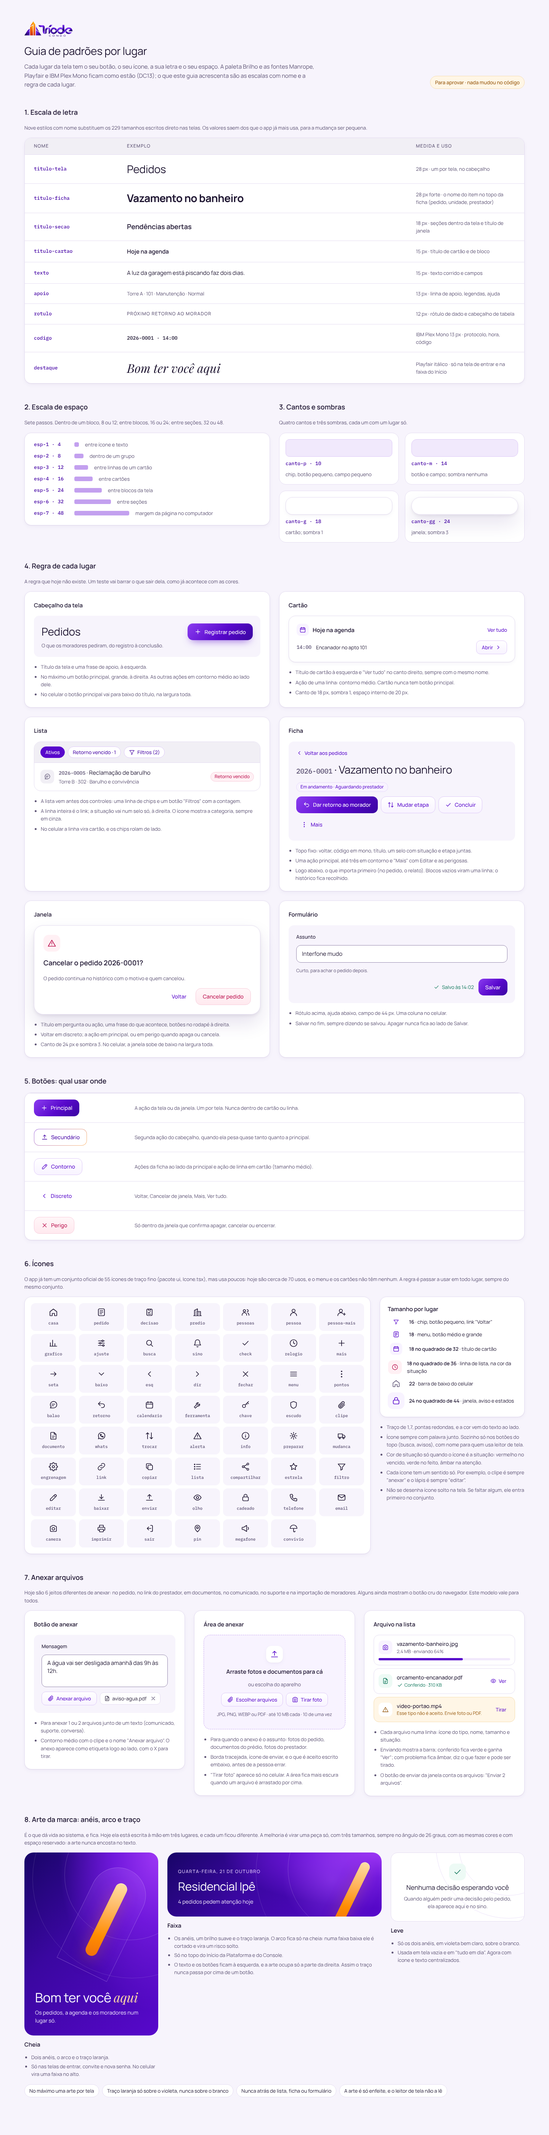
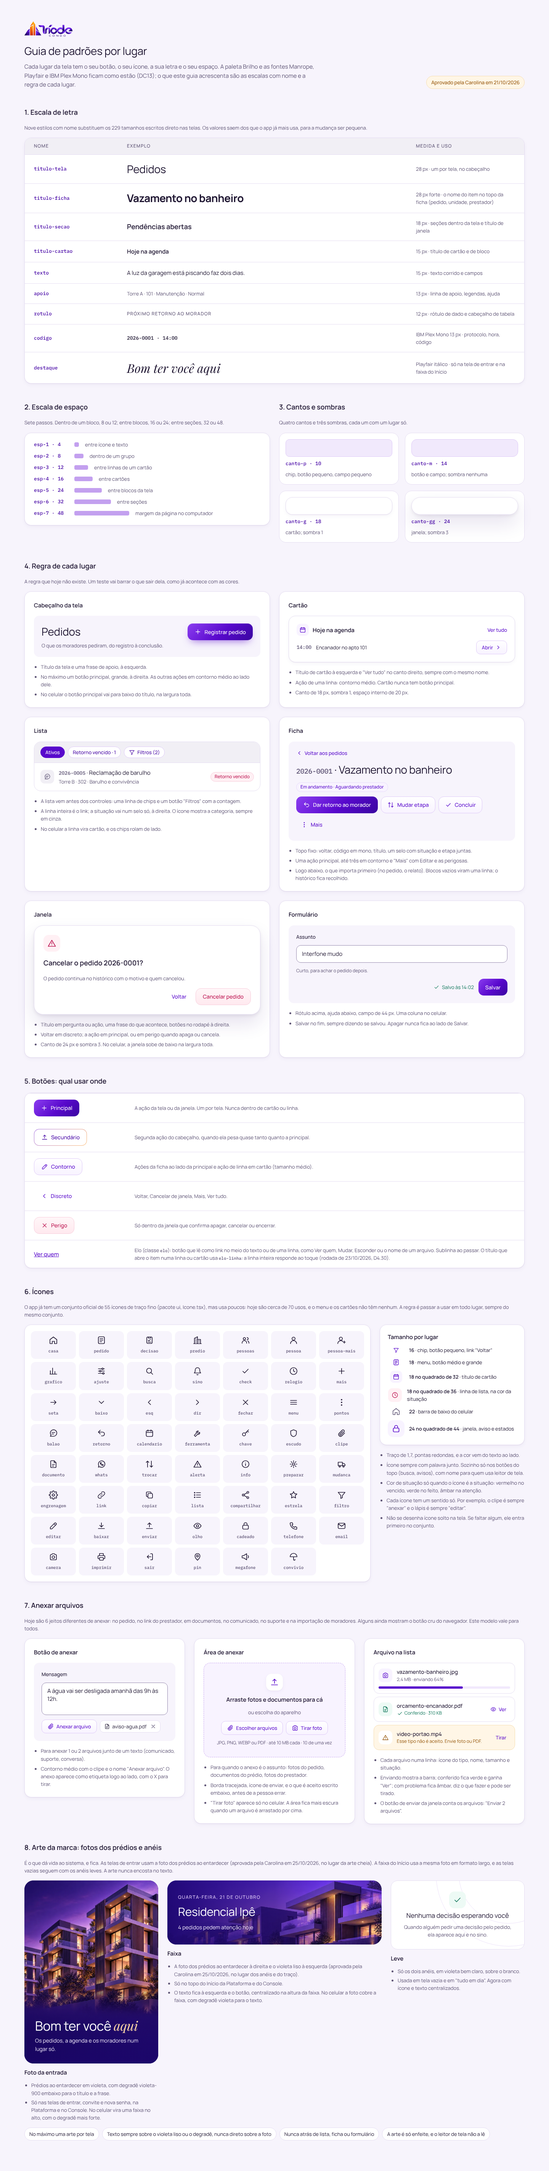
Fotos dos prédios nas telas de entrar e na faixa do Início (D4.38)
Plataforma e Console: a foto no painel das telas de entrar e na faixa do
Início, no lugar dos anéis, do arco e do traço laranja. Botão da faixa
centralizado na altura no computador. Saem as cores que só essa arte
usava e os exemplos antigos do guia; desenho registrado em docs/design.

Claude-Session: https://claude.ai/code/session_016xtneK2ik6ifMe6FUwZW3X

diff --git a/triade-condo/docs/painel-execucao.html b/triade-condo/docs/painel-execucao.html
@@ -525,6 +525,7 @@
         {"id": "D4.35", "texto": "Rodada com banco do design do frontend, área F (Console): a pendência vencida com o texto e com quem está, as partes da configuração conferidas e o nome de quem entrou ou saiu da equipe", "peca": "B4", "refs": ["PI-01", "PI-04", "PI-05", "PI-12", "V-10"], "status": "feito", "nota": "Desenho da área F no quadro 303 do canvas, aprovado pela Carolina em 24/10/2026 com as decisões F.1 e F.2 recomendadas. Pendência vencida (F.1): no Agora do Início, a linha das vencidas diz com quem está, o que é, de qual cliente e quando venceu (Com o cliente: Síndica enviar a planilha de moradores · Residencial Ipê · venceu em 21/10, ou Com a equipe · Diego: ...), a mais antiga de todas, com e mais N quando há outras, e o Ver leva à implantação desse cliente; a regra de vencida é a mesma da contagem, no fuso de cada condomínio. Configuração: quando a próxima etapa é a Configuração (reconhecida pela chave, não pelo número), as linhas de implantação do Início e da carteira dizem quantas das 11 partes já foram conferidas (Próxima: 4 · Configuração · 10 de 11 partes conferidas); cada cliente é lido no próprio contexto e nenhum condomínio fica no contexto depois da lista. Histórico da equipe: Inês entrou na equipe · Implantação, Inês saiu da equipe e Funções de Inês revistas · Implantação → Implantação, Suporte; o nome é lido na hora, nunca gravado no histórico, e evento sem nome continua com o texto de antes. A busca da carteira no servidor ficou fora por escolha da Carolina (F.2). Uma revisão independente do código achou 3 pontos menores, corrigidos antes do PR (a configuração pela chave da etapa, o Ver levando ao cliente da frase e dois testes que provavam menos do que diziam). Migration 0300 aplicada no triade-condo-dev em 24/10/2026, com a autorização escrita da Carolina, depois do merge do PR 81 (d0131f1); a api-console versão 14, publicada a partir do main (8adc634) pela entrega da tabela de preços, já leva a área F. A api-plataforma não muda.", "evidencia": "pgTAP 042_console_area_f_test.sql (26 testes: a lista igual à de antes, na mesma ordem, com os campos novos; a vencida mais antiga com o texto, com quem está, quem cuida, a etapa e o retorno; resolvida a mais antiga, aparece a seguinte; o retorno de hoje no fuso do Acre não vencido; as partes só quando a próxima etapa é a configuração, sem vazar de um cliente para outro; nenhum contexto depois da lista; quem não é da equipe e quem não tem cliente; o histórico com o nome atual, sem gravar o nome). Deno clientes_test.ts (o histórico da equipe com o alvo e a lista de implantações repassada). Vitest eventos.test.ts (os textos com o nome e sem ele). Playwright console-area-f.spec.ts (3 cenários, com axe) e console-passo1.spec.ts com a frase nova. Suítes completas: 2471 pgTAP, 272 Deno, 290 Vitest e 73 de ponta a ponta do Console (1 pulado) passando localmente."},
         {"id": "D4.36", "texto": "Rodada com banco do design do frontend, área E (Pessoas, suporte e link do prestador): quem assume os pedidos e as manutenções ao revogar o acesso, a imagem dentro da mensagem do chamado e o Pronto do prestador com o que foi mandado", "peca": "B4", "refs": ["CF-04", "CF-05", "MP-01", "MP-03", "PI-20", "V-11", "MP-08"], "status": "feito", "nota": "Desenho da área E nos quadros 298 a 302 do canvas, aprovado pela Carolina em 24/10/2026 com as decisões E.1, E.2 e E.3 recomendadas. Revogar (E.1): a janela diz por quantos pedidos e manutenções a pessoa responde e, só quando há algo em aberto, pergunta quem assume os pedidos (só quem atende e está disponível, com o padrão da fila já escolhido, ou Deixar na fila sem responsável) e quem assume as manutenções e as preventivas ativas (quem cuida da manutenção); a manutenção nunca fica com quem perdeu o acesso, cada troca vai para o histórico com o motivo Acesso revogado e o repasse fica registrado logo depois da revogação; se a contagem estava velha, a janela recarrega e pergunta. Imagem no chamado (E.2): a imagem é anexada ao enviar (abrir, responder e pedir mudança) e fica dentro da mensagem, até 3 por mensagem e 10 por chamado, só na própria mensagem recém-enviada; as imagens antigas foram para a mensagem anterior mais próxima de quem enviou; o Console mostra as imagens dentro das mensagens, sem anexar. Pronto do prestador (E.3): O que você mandou lista cada envio com a hora, o texto, quem fez, o que ficou para depois e as fotos, que abrem pela página só enquanto o link vale; foto retirada pelo síndico some. Uma revisão independente do código achou pontos menores, corrigidos antes do PR (a migração das imagens antigas com erro claro se o papel não ignorar o RLS, a trava contra revogações ao mesmo tempo, o repasse no histórico, a foto só de registro, a janela que recarrega e as APIs falsas iguais ao banco). Migration 0297 aplicada no triade-condo-dev em 24/10/2026, com a autorização escrita da Carolina, depois do merge do PR 85 (8cfac88), e api-plataforma versão 36 publicada a partir do main; as telas subiram pela Vercel com o mesmo merge. A api-console não muda.", "evidencia": "pgTAP 043_area_e_test.sql (75 testes: quem assume pedidos, manutenções e preventivas, as recusas, outro condomínio, a recusa que não mexe em nada, o repasse no histórico, a contagem em aberto; os limites de 3 e 10 imagens, a mensagem própria, recente e do lado do cliente, as imagens em cada mensagem e a migração das antigas; o Pronto com a lista completa e as fotos, a foto retirada, não liberada, de outro link, de outro condomínio e sem registro, e o link encerrado) e 020 ajustado. Deno configuracoes_test, suporte_test e links_test. Vitest suporte, plataforma e eventos. Playwright plataforma-area-e.spec.ts e console-area-e.spec.ts, com axe, e plataforma-passo2, plataforma-suporte e plataforma-links-qr ajustados. Telas-modelo pessoas-revogar-assume-*, suporte-chamado-imagem-* e links-prestador-pronto-envios. Suítes completas: 2624 pgTAP, 281 Deno, 305 Vitest e 535 de ponta a ponta (1 pulado) passando localmente."},
         {"id": "D4.37", "texto": "Revogar sem deixar nada preso: os fluxos que tiram o acesso por fora da janela de Pessoas", "peca": "B4", "refs": ["CF-05", "CT-01"], "status": "pendente", "nota": "Achado na revisão da área E (D4.36), e já era assim antes dela: a troca de síndico no Console (console_trocar_sindico) revoga o síndico antigo sem passar as manutenções e as preventivas dele e sem tirá-lo de quem atende, então os pedidos ficam com ele; ao revogar, as pendências de pedido em nome da pessoa e o executor das manutenções também não mudam de dono. Falta levar a mesma regra de quem assume para esses casos."},
+        {"id": "D4.38", "texto": "Fotos dos prédios ao entardecer nas telas de entrar e na faixa do Início, na Plataforma e no Console, no lugar da arte antiga dos anéis, do arco e do traço laranja", "peca": "B4", "refs": ["EM-02"], "status": "feito", "nota": "Pedido e aprovado pela Carolina em 25/10/2026, com as prévias no computador e no celular. Telas de entrar, convite e nova senha (peça TelaAcesso): a foto no painel da esquerda, recortada das bordas, com o Bom ter você aqui e a frase sobre o violeta de baixo e um degradê violeta-900; no celular, a foto vira uma faixa mais alta, com degradê mais forte. Faixa do Início (peça FotoFaixa): a foto larga com os prédios à direita e o texto no violeta da esquerda; o botão Registrar pedido ou Cadastrar condomínio centralizado na altura da faixa no computador, como a Carolina pediu; no celular a foto cobre a faixa com degradê para o texto. Fontes e paleta oficial sem mudança. Com a autorização da Carolina, saíram os anéis, o arco e o traço das duas peças, as cores --grad-arco, --grad-violeta, --grad-trilha e --shadow-trilha (só essa arte as usava) e os exemplos antigos Cheia e Faixa do guia de padrões. Os anéis leves das telas vazias continuam.", "evidencia": "Fotos em public/marca/entrada-predios.webp e faixa-predios.webp dos dois apps. Desenho registrado em docs/design (guia-padroes seção 8, LEIA-ME e telas-modelo entrar-* e inicio-faixa-*). Playwright plataforma-passo2, console-novo, console-passo1 e fundacao (77 passando, 1 pulado, com axe no celular e no computador); Vitest 414 passando; typecheck e lint sem erro."},
         {"id": "D4.21", "texto": "Novo frontend, rodada Dia a dia: Manutenção por dentro no padrão novo, com a ficha no modelo do pedido, Preventivas, Prestadores e Nova manutenção em passos no celular", "peca": "B4", "refs": ["MP-01", "MP-02", "MP-03", "MP-04", "MP-05", "MP-07", "MP-09", "MP-13"], "status": "feito", "nota": "Feito pelas telas-modelo aprovadas pela Carolina em 22/10/2026, com as decisões A.1, B.1, C.1 e D.1 da análise da Manutenção (docs/design/telas-modelo/manutencao-*; quadros 117 a 133 do canvas). Sem banco e sem mudar a API. A ficha da manutenção segue o modelo da ficha do pedido (A.1): o topo com o tipo, a situação, a prioridade e um só botão principal, que muda com a situação (Iniciar na planejada, Concluir em andamento, Resolver pendência na pendente e Reabrir na concluída); o resto fica em Mais ações (Editar, Marcar pendência, Marcar visita, Voltar a planejada e Cancelar manutenção), e a concluída e a cancelada não têm Mais ações; no celular, o principal fica preso embaixo. O próximo retorno fica num cartão no alto, com Mudar ou Definir e quanto falta. Quem executa e o Link do prestador viraram um cartão só (B.1), com o prestador, o serviço e o acordo, Ligar e Chamar no WhatsApp, Adicionar quando falta o telefone, a reserva do cadastro e o que acontece sem resposta ao link; a frase que dizia que a troca automática chega com o WhatsApp saiu, porque a troca para a reserva já está feita (F5.9). Os Dados da manutenção ganharam Repassar (muda o responsável sem abrir a edição inteira), Mudar a etapa e Mudar a previsão; as providências, os arquivos, as ligações, os comunicados e o histórico (as três últimas, com Ver histórico completo) viraram cartões, na ordem do desenho no celular. Concluir ganhou o campo Anexar a foto do depois, que guarda a foto nos arquivos da manutenção ao concluir. A vistoria mostra O que olhar com Responder em cada item, quantos foram respondidos e Virar manutenção no item com problema. Preventivas é uma tabela (cartões no celular) com o que se repete, a próxima data, quem executa e a situação, e cada linha diz Abrir a manutenção quando ela já abriu ou quantos dias antes vai abrir; as sugestões da ABNT NBR 5674 ficam recolhidas numa linha quando já existe preventiva (C.1), e o ícone das preventivas virou o calendário. Prestadores tem as abas Ativos e Arquivados com a contagem, a busca por nome, serviço ou telefone, os atalhos Contrato perto do fim e Com pendência e os grupos Com contrato e Por chamado; a ficha do prestador tem Contato com Ligar e Chamar no WhatsApp, Como trabalha com o condomínio (acordo, desde, reserva e de quem é a reserva), as manutenções dele com Ver todas na lista de manutenções e Arquivar em Mais ações; a frase que prometia Orçamentos e compras saiu. Nova manutenção (D.1) é uma tela só em três partes numeradas no computador (O que e onde, Quem cuida e quem executa, Quando e detalhes) e três passos no celular, com a barra de progresso, o passo feito resumido com Alterar, Voltar sem perder o que foi preenchido e o erro do servidor levando ao passo do campo. Os cartões da ficha (Cartao, Dado e Mais ações) saíram da ficha do pedido para uma peça comum (telas/Ficha.tsx). O que ficou diferente do desenho está no D4.22.", "evidencia": "Playwright plataforma-manutencao (8 cenários no celular e no computador, com axe: a lista e o início; registrar uma corretiva em três passos no celular, com o resumo do passo e Voltar sem perder o preenchido, e numa tela só no computador; Quem executa com Ligar, a reserva e o Link do prestador no mesmo cartão, Marcar pendência em Mais ações, Resolver pendência, Concluir com o campo da foto do depois e Reabrir sem Mais ações na concluída; Repassar; a vistoria; as Preventivas com Abrir a manutenção e as sugestões recolhidas; Prestadores com Com pendência e a busca, a ficha com o WhatsApp, Arquivar em Mais ações e Ver todas na lista de manutenções; as etapas nas Configurações) e a API falsa (api-falsa-manutencao.ts) passando o responsável no Repassar; lint, tipos, 259 Vitest e 404 ponta a ponta passando localmente."},
         {"id": "D4.22", "texto": "Manutenção no padrão novo: o que ficou diferente do desenho aprovado", "peca": "B4", "refs": ["MP-01", "MP-02"], "status": "feito", "nota": "Do desenho de 22/10/2026, a foto do depois agora vai numa chamada só ao concluir (D4.30): a API conclui e prepara o envio de cada foto; se uma foto falha, a manutenção fica concluída e a tela diz qual não foi. As outras diferenças eram escolhas, que a Carolina aceitou em 23/10/2026: Marcar pendência também na planejada, Concluir em Mais ações na pendente e Adicionar abrindo a edição inteira do prestador.", "evidencia": "D4.30: rota POST /v1/condominio/manutencao/:id/concluir com as fotos (api-plataforma/manutencao_test.ts) e Playwright plataforma-manutencao no celular e no computador."},
         {"id": "D4.19", "texto": "Novo frontend, rodada Comunicação: WhatsApp do condomínio no padrão novo, com a conversa do número e Registrar pedido com esta mensagem", "peca": "S5", "refs": ["W-05", "W-10", "W-13", "W-14", "W-17", "W-20", "MU-02", "AT-01"], "status": "feito", "nota": "Feito pelas telas-modelo aprovadas pela Carolina em 22/10/2026, com as decisões A.1, B.1, C.1 e D.1 da análise do WhatsApp (docs/design/telas-modelo/whatsapp-*; quadros 101 a 116 do canvas). Sem banco e sem mudar a API. As quatro abas viraram um trilho com A identificar, Falhas e Quedas, um endereço para cada parte (/whatsapp?parte=identificar, falhas e quedas), uma frase sob o título e o número da contagem em cada parte; no celular, a parte escolhida mostra o nome e as outras só o ícone com o número. A aba Conexão virou um selo no topo (A.1), com a situação do número (Conectado · piloto, Desconectado, Fora do ar), que abre o que era a aba: o número, a situação, quem conecta e o link para Configurações › WhatsApp. A identificar tem uma linha por número, a mais recente primeiro, com a última mensagem, quantas são e um selo (Chegou com o número desconectado, Recado, Vínculo a confirmar ou Número novo); a linha inteira abre a conversa daquele número (B.1), com as mensagens separadas por dia e os arquivos, e dali saem Registrar pedido com esta mensagem (o principal), Juntar a um pedido, Ligar a um contato e Arquivar a conversa com motivo. Registrar pedido com esta mensagem abre o Registrar pedido com o relato já escrito pelas mensagens e o canal Mensagem, diz quantas mensagens e arquivos vão junto e avisa quando o número não é de um contato confirmado (o morador não recebe o protocolo pelo WhatsApp); ao registrar, junta as mensagens ao pedido e a confirmação diz As mensagens estão no pedido, ou, se a junção falha, que o pedido ficou e As mensagens não foram juntadas, com Juntar de novo. Juntar a um pedido e Ligar a um contato buscam enquanto a pessoa digita, com os pedidos da unidade do contato primeiro. Falhas é uma lista com a finalidade, para quem, o texto, o pedido, as tentativas, quem cuida e o motivo num selo, com Reenviar e Avisei por outro meio. Quedas mostra O número está no ar com Abrir uma queda, ou a queda aberta com o canal alternativo primeiro e O que aconteceu recolhido; encerrar a queda não muda a parte da tela. Na ficha do pedido, a conversa do WhatsApp fica logo abaixo do topo (D.1), em bolhas, com a janela num selo (Aberta até ou Conversa fechada), só as três últimas mensagens e Ver a conversa inteira, sem caixa de resposta própria; o pedido de revisão do morador (W-10) virou uma faixa no alto da ficha com Manter concluído e responder e Reabrir o pedido, e continua sem reabrir sozinho. Responder pelo WhatsApp é Pelo WhatsApp em Dar retorno ao morador (C.1), que vem escolhido quando o pedido tem conversa: diz se a conversa está aberta e até quando (e que isso não é prazo de atendimento), ou que fechou, com o modelo, o limite de 800 caracteres e a prévia de como chega ao morador (W-20); Enviar e registrar retorno conta como retorno e, quando a mensagem não pode sair, o retorno fica registrado e a tela diz para avisar por outro meio. Os avisos do sino levam direto a Falhas ou a Quedas. O que ficou diferente do desenho está no D4.20.", "evidencia": "Vitest packages/domain whatsapp.test.ts (o dia de cada mensagem na conversa e o relato tirado das mensagens). Playwright plataforma-whatsapp (reescrito, 11 cenários no celular e no computador, com axe: o trilho e a conversa do número com Arquivar e Ligar a um contato; Registrar pedido com esta mensagem com o relato, o canal Mensagem e a junção; a junção que falha e Juntar de novo; Juntar a um pedido; Falhas com Reenviar e o selo do número; a conversa na ficha, a faixa da revisão e Pelo WhatsApp em Dar retorno; outro meio sem WhatsApp; a conversa fechada com o modelo, o limite e a prévia; a conversa aberta), plataforma-garagens-reserva-quedas (Quedas no trilho, O que aconteceu recolhido e O número está no ar) e plataforma-passo4 (Dar retorno por telefone num pedido com conversa) ajustados; lint, tipos, 259 Vitest e 402 ponta a ponta passando localmente."},
@@ -2678,6 +2679,7 @@
     ]
   ],
   "historico": [
+    {"data": "25/10/2026", "inicio": "00:21", "fim": "00:45", "texto": "Fotos dos prédios ao entardecer nas telas de entrar e na faixa do Início da Plataforma e do Console (D4.38), aprovadas pela Carolina com as prévias no computador e no celular; botão da faixa centralizado na altura; a arte antiga dos anéis, do arco e do traço saiu do código, das cores e do guia de padrões. Sem banco."},
     {"data": "25/10/2026", "inicio": "00:06", "fim": "00:15", "texto": "Comercial, kit para o conselho pelos critérios do síndico (R17.3b) no ar: a 0307 aplicada pela Carolina no SQL Editor do triade-condo-dev e conferida (fatos_comparativo, os critérios e o problema na ficha do interessado e as funções dos fatos), o PR 101 juntado ao main (471d433) e a api-console versão 19 publicada a partir do main, com a autorização escrita da Carolina; a função responde (403 sem o repasse). Próxima: R17.4.", "ref": "CM-20, CM-16"},
     {"data": "24/10/2026", "inicio": "23:01", "fim": "00:02", "texto": "Comercial, kit para o conselho pelos critérios do síndico (R17.3b): migration 0307_comercial_kit_criterios com os critérios (lista fechada e o outro com texto) e o problema do prédio na ficha, o comparativo com uma linha por critério (a TRÍADE com textos fixos só do que existe, o sistema atual e os concorrentes com o fato confirmado pela equipe ou o preço conferido, o resto a confirmar com eles) e os fatos com a fonte só para a equipe. No Console, o Escolher critérios e o Registrar o fato em cada célula do kit, e os critérios e o problema na ficha do interessado; a apresentação curta e o PDF do kit abrem com o problema do prédio; o kit pelo link traz o mesmo comparativo, sem a fonte. O piloto na apresentação fica na R17.4. Correção da revisão independente na própria 0307, terminada em 25/10/2026: o fato vale só para o prédio em que foi registrado, por padrão, e para todo prédio só quando é informação pública do concorrente (nunca na coluna do sistema atual); o fato do outro critério só casa com o mesmo texto da ficha; a anonimização apaga e retira os fatos do prédio, e fato e critério em interessado anonimizado são recusados; o kit pelo link perde a fonte e a data do preço conferido; registro ao mesmo tempo devolve FATO_EXISTE; a mensagem do kit só cita o comparativo quando há linhas; o texto de morador sem app fala de documentos por link que expira; e o campo do problema avisa que vai para o síndico e o conselho. Suítes locais passando: pgTAP 3389 (57 arquivos), o teste de edição simultânea e o do fato registrado ao mesmo tempo, Deno 359, Vitest 414 e ponta a ponta do Console 124 (2 pulados). Falta aplicar a 0307 no triade-condo-dev e publicar a api-console.", "ref": "CM-20, CM-16"},
     {"data": "24/10/2026", "inicio": "21:29", "fim": "23:05", "texto": "Decisões e aprovações (R5.3) construída e testada, com os três modelos de WhatsApp do conselho aprovados pela Carolina para o piloto: migration 0305_conselho_whatsapp_retencao (o link pessoal pelo WhatsApp do condomínio, com PARAR para quem não é morador, e o tipo CONSELHO na rotina de retenção, 90 dias depois de sair), Ligada a e Alterar a despesa nas telas, o motivo de ficar para copiar e a situação do envio, e o teste do subsíndico pelo link. Suítes locais passando: pgTAP 3177, Deno 347, Vitest 380 e ponta a ponta 600. Depois, no ar: a Carolina aplicou a 0305 no SQL Editor do triade-condo-dev (conferida), o PR 99 foi juntado ao main e a api-plataforma versão 41 publicada a partir do main, com a autorização escrita dela; a api-console não mudou.", "ref": "V-14, FC-10, PT-11"},

diff --git a/triade-condo/docs/design/guia-padroes.html b/triade-condo/docs/design/guia-padroes.html
@@ -674,35 +674,37 @@ a{color:#5808cc}a:hover{color:#350580}
 </section>
 
 <section style="display: flex; flex-direction: column; gap: 16px">
-<h2 style="margin: 0; font-size: 18px; font-weight: 600">8. Arte da marca: anéis, arco e traço</h2>
-<p style="margin: 0; color: #5e5475; font-size: 13px">É o que dá vida ao sistema, e fica. Hoje ela está escrita à mão em três lugares, e cada um ficou diferente. A melhoria é virar uma peça só, com três tamanhos, sempre no ângulo de 26 graus, com as mesmas cores e com espaço reservado: a arte nunca encosta no texto.</p>
+<h2 style="margin: 0; font-size: 18px; font-weight: 600">8. Arte da marca: fotos dos prédios e anéis</h2>
+<p style="margin: 0; color: #5e5475; font-size: 13px">É o que dá vida ao sistema, e fica. As telas de entrar usam a foto dos prédios ao entardecer (aprovada pela Carolina em 25/10/2026, no lugar da arte cheia). A faixa do Início usa a mesma foto em formato largo, e as telas vazias seguem com os anéis leves. A arte nunca encosta no texto.</p>
 <div style="display: grid; grid-template-columns: 1fr 1.6fr 1fr; gap: 24px; align-items: start">
 
 <div style="display: flex; flex-direction: column; gap: 12px">
-<div style="position: relative; overflow: hidden; height: 480px; border-radius: 24px; background: radial-gradient(120% 140% at 100% 0%, #9e37f5 0%, #7018dc 28%, transparent 62%), linear-gradient(135deg, #180567 0%, #3a07a0 40%, #5808cc 100%); color: #ffffff; display: flex; flex-direction: column; justify-content: flex-end; padding: 28px; box-sizing: border-box">
-<span aria-hidden="true" style="position: absolute; pointer-events: none; top: -112px; right: -96px; width: 340px; height: 340px; border-radius: 50%; border: 1px solid #ffffff33"></span><span aria-hidden="true" style="position: absolute; pointer-events: none; top: -192px; right: -192px; width: 520px; height: 520px; border-radius: 50%; border: 1px solid #ffffff26"></span><span aria-hidden="true" style="position: absolute; pointer-events: none; top: 32px; right: 64px; width: 144px; height: 288px; transform: rotate(26deg); border-radius: 999px 999px 0 0; border: 1px solid #ddc8f84d; background: linear-gradient(170deg, #c27bff33 0%, #7a2be026 55%, #5808cc00 100%)"></span><span aria-hidden="true" style="position: absolute; pointer-events: none; top: 72px; right: 120px; width: 32px; height: 208px; transform: rotate(26deg); border-radius: 999px; background: linear-gradient(165deg, #ffe0a8 0%, #ffb45c 38%, #ff8d01 72%, #f2700a 100%); box-shadow: inset 0 2px 0 #ffffff54, 0 18px 40px -8px #ff8d0180"></span>
+<div style="position: relative; overflow: hidden; height: 480px; border-radius: 24px; background: #180567; color: #ffffff; display: flex; flex-direction: column; justify-content: flex-end; padding: 28px; box-sizing: border-box">
+<img aria-hidden="true" alt="" src="telas-modelo/entrada-predios.webp" style="position: absolute; inset: 0; width: 100%; height: 100%; object-fit: cover; object-position: top">
+<span aria-hidden="true" style="position: absolute; inset: 0; background: linear-gradient(180deg, transparent 55%, rgb(24 5 103 / .6) 78%, rgb(24 5 103 / .85) 100%)"></span>
 <span style="position: relative; font-size: 34px; font-weight: 300; letter-spacing: -0.01em; line-height: 1.15">Bom ter você <em style="font-family: 'Playfair Display', serif; font-style: italic; font-weight: 400; color: #ffd9a8">aqui</em></span>
 <span style="position: relative; margin-top: 8px; font-size: 14px; color: #f1e9fc">Os pedidos, a agenda e os moradores num lugar só.</span>
 </div>
-<span style="font-size: 15px; font-weight: 600">Cheia</span>
+<span style="font-size: 15px; font-weight: 600">Foto da entrada</span>
 <ul style="margin: 0; padding-left: 18px; display: flex; flex-direction: column; gap: 4px; font-size: 13px; color: #5e5475">
-<li>Dois anéis, o arco e o traço laranja.</li>
-<li>Só nas telas de entrar, convite e nova senha. No celular vira uma faixa no alto.</li>
+<li>Prédios ao entardecer em violeta, com degradê violeta-900 embaixo para o título e a frase.</li>
+<li>Só nas telas de entrar, convite e nova senha, na Plataforma e no Console. No celular vira uma faixa no alto, com o degradê mais forte.</li>
 </ul>
 </div>
 
 <div style="display: flex; flex-direction: column; gap: 12px">
-<div style="position: relative; overflow: hidden; min-height: 168px; border-radius: 24px; background: radial-gradient(120% 140% at 100% 0%, #9e37f5 0%, #7018dc 28%, transparent 62%), linear-gradient(135deg, #180567 0%, #3a07a0 40%, #5808cc 100%); color: #ffffff; display: flex; flex-direction: column; justify-content: flex-end; gap: 6px; padding: 28px 260px 28px 28px; box-sizing: border-box">
-<span aria-hidden="true" style="position: absolute; pointer-events: none; top: -128px; right: -96px; width: 340px; height: 340px; border-radius: 50%; border: 1px solid #ffffff33"></span><span aria-hidden="true" style="position: absolute; pointer-events: none; top: -208px; right: -192px; width: 520px; height: 520px; border-radius: 50%; border: 1px solid #ffffff26"></span><span aria-hidden="true" style="position: absolute; pointer-events: none; top: -60px; right: 0px; width: 260px; height: 260px; border-radius: 50%; background: radial-gradient(closest-side, #b45cff59, transparent)"></span><span aria-hidden="true" style="position: absolute; pointer-events: none; top: 18px; right: 64px; width: 26px; height: 176px; transform: rotate(26deg); border-radius: 999px; background: linear-gradient(165deg, #ffe0a8 0%, #ffb45c 38%, #ff8d01 72%, #f2700a 100%); box-shadow: inset 0 2px 0 #ffffff54, 0 16px 36px -8px #ff8d0180"></span>
+<div style="position: relative; overflow: hidden; min-height: 168px; border-radius: 24px; background: #180567; color: #ffffff; display: flex; flex-direction: column; justify-content: center; gap: 6px; padding: 28px; box-sizing: border-box">
+<img aria-hidden="true" alt="" src="telas-modelo/faixa-predios.webp" style="position: absolute; inset: 0; width: 100%; height: 100%; object-fit: cover; object-position: right">
+<span aria-hidden="true" style="position: absolute; inset: 0; background: linear-gradient(90deg, rgb(24 5 103 / .85) 0%, rgb(24 5 103 / .5) 50%, transparent 75%)"></span>
 <span style="position: relative; font-size: 12px; font-weight: 500; letter-spacing: 0.12em; text-transform: uppercase; color: #ddc8f8">Quarta-feira, 21 de outubro</span>
 <span style="position: relative; font-size: 30px; font-weight: 300; letter-spacing: -0.01em">Residencial Ipê</span>
 <span style="position: relative; font-size: 14px; color: #f1e9fc">4 pedidos pedem atenção hoje</span>
 </div>
 <span style="font-size: 15px; font-weight: 600">Faixa</span>
 <ul style="margin: 0; padding-left: 18px; display: flex; flex-direction: column; gap: 4px; font-size: 13px; color: #5e5475">
-<li>Os anéis, um brilho suave e o traço laranja. O arco fica só na cheia: numa faixa baixa ele é cortado e vira um risco solto.</li>
+<li>A foto dos prédios ao entardecer à direita e o violeta liso à esquerda (aprovada pela Carolina em 25/10/2026, no lugar dos anéis e do traço).</li>
 <li>Só no topo do Início da Plataforma e do Console.</li>
-<li>O texto e os botões ficam à esquerda, e a arte ocupa só a parte da direita. Assim o traço nunca passa por cima de um botão.</li>
+<li>O texto fica à esquerda e o botão, centralizado na altura da faixa. No celular a foto cobre a faixa, com degradê violeta para o texto.</li>
 </ul>
 </div>
 
@@ -723,7 +725,7 @@ a{color:#5808cc}a:hover{color:#350580}
 </div>
 <div style="display: flex; flex-wrap: wrap; gap: 8px">
 <span style="padding: 6px 12px; border-radius: 999px; background: #ffffff; border: 1px solid #e4dcf1; font-size: 13px">No máximo uma arte por tela</span>
-<span style="padding: 6px 12px; border-radius: 999px; background: #ffffff; border: 1px solid #e4dcf1; font-size: 13px">Traço laranja só sobre o violeta, nunca sobre o branco</span>
+<span style="padding: 6px 12px; border-radius: 999px; background: #ffffff; border: 1px solid #e4dcf1; font-size: 13px">Texto sempre sobre o violeta liso ou o degradê, nunca direto sobre a foto</span>
 <span style="padding: 6px 12px; border-radius: 999px; background: #ffffff; border: 1px solid #e4dcf1; font-size: 13px">Nunca atrás de lista, ficha ou formulário</span>
 <span style="padding: 6px 12px; border-radius: 999px; background: #ffffff; border: 1px solid #e4dcf1; font-size: 13px">A arte é só enfeite, e o leitor de tela não a lê</span>
 </div>

diff --git a/triade-condo/sistema/packages/ui/src/TelaAcesso.tsx b/triade-condo/sistema/packages/ui/src/TelaAcesso.tsx
@@ -1,18 +1,20 @@
 import type { ReactNode } from "react";
 import { Marca } from "./Marca.tsx";
 
-// Telas de acesso (entrar, convite, nova senha): a arte da marca de um lado e o formulário do
-// outro (telas-modelo, DC13). No celular, a arte vira uma faixa no alto. A arte de fundo só
-// aparece aqui, no início, nas telas vazias e na prioridade.
+// Telas de acesso (entrar, convite, nova senha): a foto dos prédios ao entardecer de um lado e o
+// formulário do outro. No celular, a foto vira uma faixa no alto. O arquivo fica em
+// public/marca/entrada-predios.webp de cada aplicação (1034 × 1192); a parte de baixo da foto é
+// violeta liso, e o degradê por cima garante a leitura do título e da frase.
+export const FOTO_ENTRADA = { src: "/marca/entrada-predios.webp", largura: 1034, altura: 1192 } as const;
+
 export function TelaAcesso({ sistema, frase, children }: { sistema: string; frase: string; children: ReactNode }) {
   return (
     <main id="conteudo" className="grid min-h-dvh place-items-center px-4 py-8">
       <div className="grid w-full max-w-[920px] overflow-hidden rounded-3xl border border-linha bg-superficie shadow-s3 md:grid-cols-[1.05fr_1fr]">
-        <div aria-hidden="true" className="relative flex min-h-44 flex-col justify-end overflow-hidden bg-[image:var(--grad-violeta)] p-6 text-white md:min-h-[540px] md:p-9">
-          <span className="absolute -top-28 -right-24 h-[340px] w-[340px] rounded-full border border-white/20" />
-          <span className="absolute -top-48 -right-48 h-[520px] w-[520px] rounded-full border border-white/15" />
-          <span className="absolute top-8 right-16 h-72 w-36 rotate-[26deg] rounded-t-full border border-violeta-200/30 bg-[image:var(--grad-arco)]" />
-          <span className="absolute top-14 right-10 h-56 w-8 rotate-[26deg] rounded-full bg-[image:var(--grad-trilha)] shadow-[inset_0_2px_0_rgb(255_255_255/.33)]" />
+        <div aria-hidden="true" className="relative flex min-h-72 flex-col justify-end overflow-hidden bg-violeta-900 p-6 text-white md:min-h-[540px] md:p-9">
+          {/* eslint-disable-next-line @next/next/no-img-element -- pacote compartilhado, sem next/image */}
+          <img src={FOTO_ENTRADA.src} width={FOTO_ENTRADA.largura} height={FOTO_ENTRADA.altura} alt="" fetchPriority="high" className="absolute inset-0 h-full w-full object-cover object-[50%_12%] md:object-top" />
+          <span className="absolute inset-0 bg-[linear-gradient(180deg,transparent_25%,rgb(24_5_103/.75)_58%,rgb(24_5_103/.94)_100%)] md:bg-[linear-gradient(180deg,transparent_55%,rgb(24_5_103/.6)_78%,rgb(24_5_103/.85)_100%)]" />
           <p className="relative text-3xl leading-tight font-light tracking-tight md:text-[40px]">
             Bom ter você <em className="font-[family-name:var(--font-destaque)] font-normal text-laranja-200 italic">aqui</em>
           </p>

diff --git a/triade-condo/sistema/apps/console/src/telas/Inicio.tsx b/triade-condo/sistema/apps/console/src/telas/Inicio.tsx
@@ -11,7 +11,7 @@ import Link from "next/link";
 import { useRouter } from "next/navigation";
 import { useState, type ReactNode } from "react";
 import { mostrarDataSemHora, mostrarTelefone, SITUACOES_CHAMADO, TIPOS_SUPORTE_ACESSO } from "@triade/domain";
-import { AvisoErro, Botao, Carregando, classeBotao, ErroCarregar, Icone, IconeMarca, Selo, textoDoErro, chamarApi, type ErroApi, type NomeIcone } from "@triade/ui";
+import { AvisoErro, Botao, Carregando, classeBotao, ErroCarregar, FotoFaixa, Icone, IconeMarca, Selo, textoDoErro, chamarApi, type ErroApi, type NomeIcone } from "@triade/ui";
 import { BarraEtapas, LinhasAgora, plural, diaHora, type LinhaAgora } from "./comum.tsx";
 import { SeloSituacao } from "./rotulos.tsx";
 import { useCarregar, useSessao, type Carga } from "./sessao.tsx";
@@ -242,11 +242,9 @@ export function Inicio() {
 
   return (
     <div className="grid gap-5">
-      <section aria-label="Resumo do dia" className="relative overflow-hidden rounded-[24px] bg-[image:var(--grad-violeta)] px-8 py-8 text-white max-md:rounded-[20px] max-md:p-5">
-        <span aria-hidden="true" className="pointer-events-none absolute -top-32 -right-24 h-[340px] w-[340px] rounded-full border border-white/20 max-md:-top-28 max-md:-right-28 max-md:h-60 max-md:w-60" />
-        <span aria-hidden="true" className="pointer-events-none absolute -top-52 -right-48 h-[520px] w-[520px] rounded-full border border-white/15 max-md:-top-44 max-md:-right-44 max-md:h-[360px] max-md:w-[360px]" />
-        <span aria-hidden="true" className="pointer-events-none absolute top-5 right-16 h-44 w-6 rotate-[26deg] rounded-full bg-[image:var(--grad-trilha)] shadow-[var(--shadow-trilha)] max-md:top-3.5 max-md:right-6 max-md:h-24 max-md:w-4" />
-        <div className="relative flex flex-wrap items-end justify-between gap-6 md:pr-52">
+      <section aria-label="Resumo do dia" className="relative overflow-hidden rounded-[24px] bg-violeta-900 px-8 py-8 text-white max-md:rounded-[20px] max-md:p-5">
+        <FotoFaixa />
+        <div className="relative flex flex-wrap items-end justify-between gap-6 md:items-center md:pr-52">
           <div className="grid gap-2">
             <p className="t-rotulo font-medium tracking-[.12em] text-violeta-100 uppercase">
               <span className="max-md:hidden">{HOJE.format(agora)}</span>

diff --git a/triade-condo/sistema/apps/plataforma/src/telas/Inicio.tsx b/triade-condo/sistema/apps/plataforma/src/telas/Inicio.tsx
@@ -10,7 +10,7 @@
 
 import Link from "next/link";
 import { CENARIOS, mostrarHoras, mostrarPorcentagem, nomeDoMes, nomeDoMesAnterior, PENDENCIAS_CONFIG } from "@triade/domain";
-import { Carregando, classeBotao, ErroCarregar, Icone, IconeMarca, Selo, type NomeIcone, type Tom } from "@triade/ui";
+import { Carregando, classeBotao, ErroCarregar, FotoFaixa, Icone, IconeMarca, Selo, type NomeIcone, type Tom } from "@triade/ui";
 import { CartaoInicio, LinhasInicio, resumoDasLinhas, type LinhaInicio } from "./CartaoInicio.tsx";
 import { diaHora } from "./pedidos/comum.tsx";
 import { HojeNaAgenda } from "./agenda/HojeNaAgenda.tsx";
@@ -210,11 +210,9 @@ export function Inicio() {
 
   return (
     <div className="grid gap-5">
-      <section aria-label="Resumo do dia" className="relative overflow-hidden rounded-[24px] bg-[image:var(--grad-violeta)] px-8 py-8 text-white max-md:rounded-[20px] max-md:p-5">
-        <span aria-hidden="true" className="pointer-events-none absolute -top-32 -right-24 h-[340px] w-[340px] rounded-full border border-white/20 max-md:-top-28 max-md:-right-28 max-md:h-60 max-md:w-60" />
-        <span aria-hidden="true" className="pointer-events-none absolute -top-52 -right-48 h-[520px] w-[520px] rounded-full border border-white/15 max-md:-top-44 max-md:-right-44 max-md:h-[360px] max-md:w-[360px]" />
-        <span aria-hidden="true" className="pointer-events-none absolute top-5 right-16 h-44 w-6 rotate-[26deg] rounded-full bg-[image:var(--grad-trilha)] shadow-[var(--shadow-trilha)] max-md:top-3.5 max-md:right-6 max-md:h-24 max-md:w-4" />
-        <div className="relative flex flex-wrap items-end justify-between gap-6 md:pr-52">
+      <section aria-label="Resumo do dia" className="relative overflow-hidden rounded-[24px] bg-violeta-900 px-8 py-8 text-white max-md:rounded-[20px] max-md:p-5">
+        <FotoFaixa />
+        <div className="relative flex flex-wrap items-end justify-between gap-6 md:items-center md:pr-52">
           <div className="grid gap-2">
             <p className="t-rotulo font-medium tracking-[.12em] text-violeta-100 uppercase">{HOJE.format(new Date())}</p>
             <h1 className="t-destaque text-4xl leading-tight max-md:text-[28px]">{saudacao()}, {primeiroNome}</h1>

diff --git a/triade-condo/sistema/packages/ui/src/FotoFaixa.tsx b/triade-condo/sistema/packages/ui/src/FotoFaixa.tsx
@@ -1,0 +1,15 @@
+// Foto da faixa do Início (Plataforma e Console): os prédios ao entardecer à direita e o violeta
+// liso à esquerda, onde ficam a data, a saudação e o lugar. O arquivo fica em
+// public/marca/faixa-predios.webp de cada aplicação (2060 × 292). No celular a faixa é estreita e
+// alta, então a foto cobre tudo e o degradê da esquerda garante a leitura do texto.
+export const FOTO_FAIXA = { src: "/marca/faixa-predios.webp", largura: 2060, altura: 292 } as const;
+
+export function FotoFaixa() {
+  return (
+    <>
+      {/* eslint-disable-next-line @next/next/no-img-element -- pacote compartilhado, sem next/image */}
+      <img aria-hidden="true" src={FOTO_FAIXA.src} width={FOTO_FAIXA.largura} height={FOTO_FAIXA.altura} alt="" className="pointer-events-none absolute inset-0 h-full w-full object-cover object-right" />
+      <span aria-hidden="true" className="pointer-events-none absolute inset-0 bg-[linear-gradient(90deg,rgb(24_5_103/.55)_0%,transparent_45%)] max-md:bg-[linear-gradient(90deg,rgb(24_5_103/.9)_0%,rgb(24_5_103/.65)_55%,rgb(24_5_103/.2)_100%)]" />
+    </>
+  );
+}

diff --git a/triade-condo/sistema/packages/ui/src/tema.css b/triade-condo/sistema/packages/ui/src/tema.css
@@ -77,10 +77,6 @@
   --grad-acao-press: linear-gradient(135deg, #4706a6, #2e0585);
   --grad-borda: linear-gradient(135deg, #a16de5, #ffb96a);
   --grad-borda-forte: linear-gradient(135deg, #7b3bdc, #ff8d01);
-  --grad-violeta: radial-gradient(120% 140% at 100% 0%, #9e37f5 0%, #7018dc 28%, transparent 62%), linear-gradient(135deg, #180567 0%, #3a07a0 40%, #5808cc 100%);
-  --grad-trilha: linear-gradient(165deg, #ffe0a8 0%, #ffb45c 38%, #ff8d01 72%, #f2700a 100%);
-  --shadow-trilha: inset 0 2px 0 #ffffff54, 0 16px 36px -8px #ff8d0180;
-  --grad-arco: linear-gradient(170deg, #c27bff33 0%, #7a2be026 55%, #5808cc00 100%);
   --fx-andamento: linear-gradient(180deg, #8b3df0, #5808cc);
   --fx-ok: linear-gradient(180deg, #3dbe91, #0b7558);
   --fx-atencao: linear-gradient(180deg, #f2a33a, #95560a);

diff --git a/triade-condo/sistema/packages/ui/src/index.ts b/triade-condo/sistema/packages/ui/src/index.ts
@@ -7,6 +7,7 @@ export { FormSenhaNova, useCredencialDoLink, type CredencialDoLink } from "./For
 export { Abas, type Aba } from "./Abas.tsx";
 export { Icone, NOMES_ICONES, type NomeIcone } from "./Icone.tsx";
 export { TelaAcesso } from "./TelaAcesso.tsx";
+export { FotoFaixa } from "./FotoFaixa.tsx";
 export { FolhaA4, PreviaImpressao } from "./Impressos.tsx";
 export {
   enviarImagensDaMensagem, imagemAceita, ImagensDaMensagem, useAnexarImagens, type ImagemDaMensagem,

diff --git a/triade-condo/docs/design/LEIA-ME.md b/triade-condo/docs/design/LEIA-ME.md
@@ -6,6 +6,8 @@ Este é o padrão visual em vigor das duas aplicações, a Plataforma do síndic
 
 | O quê | Arquivo |
 |---|---|
+| Telas de entrar, convite e nova senha (aprovadas em 25/10/2026): a foto dos prédios ao entardecer no painel da esquerda, com o título e a frase sobre o violeta de baixo; no celular, a foto vira uma faixa no alto com degradê mais forte. Vale para a Plataforma e o Console | `telas-modelo/entrar-computador.png`, `telas-modelo/entrar-celular.png` e a foto em `telas-modelo/entrada-predios.webp` (cópia de `public/marca/entrada-predios.webp` dos dois apps) |
+| Faixa do Início com a foto (aprovada em 25/10/2026): os prédios à direita, o texto no violeta liso da esquerda e o botão centralizado na altura; no celular, a foto cobre a faixa com degradê violeta. Plataforma e Console | `telas-modelo/inicio-faixa-computador.png`, `telas-modelo/inicio-faixa-celular.png` e a foto em `telas-modelo/faixa-predios.webp` (cópia de `public/marca/faixa-predios.webp` dos dois apps) |
 | Cores, fontes e logo (DC13) | `../identidade/sistema.html` e os PNGs do logo em `../identidade/` |
 | Como usar: escala de letra e de espaço, cantos e sombras, regra de cada lugar, botões, ícones, anexar arquivos e arte da marca | `guia-padroes.html` (imagem em `guia-padroes.png`) |
 | Moldura nova: menu em 4 grupos, busca no topo e barra de baixo no celular | `telas-modelo/moldura-computador.html` e `telas-modelo/moldura-celular.html` |
@@ -59,7 +61,7 @@ Cada tela-modelo tem um PNG com o mesmo nome. Os HTML são referência visual ex
 - Ícones só do conjunto oficial (`sistema/packages/ui/src/Icone.tsx`), sempre com palavra junto. Se faltar algum, ele entra primeiro no conjunto.
 - O selo é uma pílula de canto redondo, com a cor da situação no fundo, na borda e na letra, sem a faixa lateral da DC13 (decisão da Carolina em 22/10/2026, para ficar igual às telas-modelo). O aviso continua com a faixa.
 - Uma cor por situação: Aberto em petróleo, Em andamento em violeta, Em revisão em âmbar, Encerrado em jade e Cancelado em cinza. A prioridade só aparece quando é Alta ou Urgente. O ícone da categoria fica sempre em cinza.
-- Arte da marca (anéis, arco e traço laranja) em três tamanhos: cheia nas telas de entrar, faixa no topo do Início e leve nas telas vazias. No máximo uma arte por tela, e ela nunca encosta no texto.
+- Arte da marca em três lugares: a foto dos prédios ao entardecer nas telas de entrar (Plataforma e Console), a mesma foto em formato largo na faixa do Início (Plataforma e Console) e os anéis leves nas telas vazias. No máximo uma arte por tela, e ela nunca encosta no texto.
 - Nenhuma tela usa emoji.
 - Formulário longo no celular vai em passos: barra de progresso no alto, Continuar e Voltar embaixo, os passos feitos resumidos no topo com "Alterar", e nada do que foi preenchido se perde ao voltar. No computador o mesmo formulário fica numa tela só, em partes numeradas.
 - Ação que é de uma linha (editar, recusar, encerrar, tirar de uso) fica no menu de três pontos da linha, e o nome dele diz de quem é ("Ações de Joana Lima"). O que monta a tela (importar, incluir divisões, unidades e vagas) fica num menu no topo, ao lado do único botão principal.
@@ -67,6 +69,8 @@ Cada tela-modelo tem um PNG com o mesmo nome. Os HTML são referência visual ex
 - Toda tela nova é desenhada e aprovada antes do código. As telas que faltam passam ao padrão novo por grupo do menu, em rodadas: Dia a dia, Comunicação, Prédio e pessoas, Gestão e, por fim, as páginas por link e o Console.
 
 ## O que saiu
+
+Em 25/10/2026, com a foto nova das telas de entrar e da faixa do Início, saíram a arte cheia (anéis, arco e traço laranja) e a faixa com anéis e traço, as cores `--grad-arco`, `--grad-violeta`, `--grad-trilha` e `--shadow-trilha`, que só essa arte usava, e os exemplos antigos "Cheia" e "Faixa" do guia.
 
 Em 23/10/2026, com as telas das Unidades, saíram a ficha da unidade antiga (substituída pela nova, com o mesmo nome) e `moradores-confirmar-computador`, substituída por `link-cadastro-pendentes`; a marcação de várias pessoas para confirmar de uma vez saiu junto, como no desenho aprovado.
 
